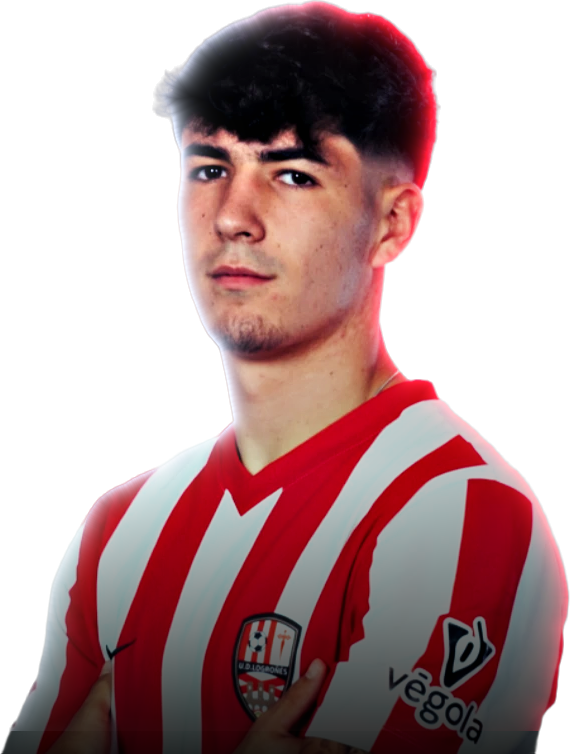
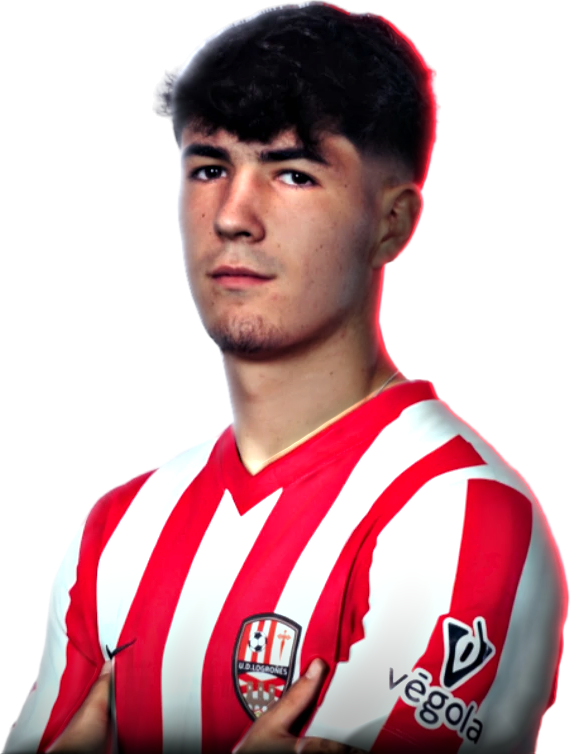
Miniaturero: iluminación 3D con Depth Anything V2 Small y aplicarla al Match Day
Claude-Session: https://claude.ai/code/session_01Q54DXVH7GopsR3mpjPBNRA

diff --git a/miniaturero/salida/2026-11-01_matchday-logrones/proyecto/matchday.html b/miniaturero/salida/2026-11-01_matchday-logrones/proyecto/matchday.html
@@ -39,11 +39,11 @@
 
   /* contraluz: foco detrás de la cabeza del jugador */
   .contraluz { position: absolute; left: -12%; top: 18%; width: 80%; aspect-ratio: 1; border-radius: 50%;
-    background: radial-gradient(circle, rgba(255,235,235,.55) 0%, rgba(255,40,60,.35) 30%, rgba(214,0,28,0) 65%);
+    background: radial-gradient(circle, rgba(255,225,225,.30) 0%, rgba(255,40,60,.18) 30%, rgba(214,0,28,0) 62%);
     mix-blend-mode: screen; }
   /* jugador recortado */
   .jugador { position: absolute; bottom: 0; left: -7%; height: var(--jugador-alto);
-    filter: drop-shadow(0 0 1px rgba(255,255,255,.7)) drop-shadow(0 0 22px rgba(214,0,28,.7)) drop-shadow(14px 18px 30px rgba(0,0,0,.6)); }
+    filter: drop-shadow(18px 24px 36px rgba(0,0,0,.75)); }
 
   .titulo { position: absolute; right: 5%; top: 4%; text-align: right; color: var(--blanco);
     font-size: 210px; line-height: .86; letter-spacing: 2px;

diff --git a/miniaturero/herramientas/mini.py b/miniaturero/herramientas/mini.py
@@ -328,10 +328,97 @@ def iluminar(rgba, rim_der="#ff1a2e", rim_izq="#dfe9ff", fuerza_rim=1.0, clave=0
     return np.dstack([out, rgba[..., 3]])
 
 
+def profundidad(rgb):
+    """Profundidad relativa (más alto = más cerca) con Depth Anything V2 Small."""
+    h, w = rgb.shape[:2]
+    H = 14 * round(700 / 14); W = 14 * max(1, round(w * H / h / 14))
+    x = cv2.resize(rgb, (W, H), interpolation=cv2.INTER_CUBIC).astype(np.float32) / 255
+    x = ((x - [0.485, 0.456, 0.406]) / [0.229, 0.224, 0.225]).transpose(2, 0, 1)[None].astype(np.float32)
+    d = sesion("depth_anything_v2_small.onnx").run(None, {"pixel_values": x})[0][0]
+    return cv2.resize(d, (w, h), interpolation=cv2.INTER_CUBIC)
+
+
+def _dir(v):
+    v = np.array(v, np.float32); return v / np.linalg.norm(v)
+
+
+def iluminar_3d(rgba, rim_der="#ff1a2e", rim_izq="#e6eeff", fuerza_rim=1.0, clave=1.0, fundido=0.2,
+                key=(-0.55, -0.55, 0.62), devolver_mapas=False):
+    """Reiluminación tipo estudio usando el relieve estimado.
+    Ejes: x a la derecha, y hacia abajo, z hacia la cámara."""
+    rgb = rgba[..., :3].astype(np.float32) / 255
+    a = rgba[..., 3].astype(np.float32) / 255
+    h, w = a.shape
+    m = a > 0.5
+    # profundidad sobre fondo gris neutro
+    base = (rgb * a[..., None] + 0.5 * (1 - a[..., None]))
+    d = profundidad((base * 255).astype(np.uint8))
+    lo, hi = np.percentile(d[m], 2), np.percentile(d[m], 98)
+    d = np.clip((d - lo) / (hi - lo + 1e-6), 0, 1)
+    d = cv2.bilateralFilter(d.astype(np.float32), 9, 0.08, 5)
+    gx = cv2.Sobel(d, cv2.CV_32F, 1, 0, ksize=5) / 128
+    gy = cv2.Sobel(d, cv2.CV_32F, 0, 1, ksize=5) / 128
+    esc = 0.55 / (np.median(np.sqrt(gx ** 2 + gy ** 2)[m]) + 1e-6)
+    nx, ny = -gx * esc, -gy * esc
+    # cerca de la silueta las normales giran hacia fuera (como en un objeto real)
+    pad = int(max(h, w) * 0.1)
+    ap = cv2.copyMakeBorder(a, pad, pad, pad, pad, cv2.BORDER_CONSTANT, value=0)
+    ab = cv2.GaussianBlur(ap, (0, 0), max(h, w) * 0.025)
+    ex = -cv2.Sobel(ab, cv2.CV_32F, 1, 0, ksize=5)[pad:-pad, pad:-pad]
+    ey = -cv2.Sobel(ab, cv2.CV_32F, 0, 1, ksize=5)[pad:-pad, pad:-pad]
+    en = np.sqrt(ex ** 2 + ey ** 2) + 1e-6
+    dist = cv2.distanceTransform((ap > 0.5).astype(np.uint8), cv2.DIST_L2, 5)[pad:-pad, pad:-pad]
+    peso = np.exp(-dist / (max(h, w) * 0.02))
+    nx = nx + peso * ex / en * 2.5
+    ny = ny + peso * ey / en * 2.5
+    nz = np.ones_like(nx)
+    nn = np.sqrt(nx ** 2 + ny ** 2 + nz ** 2)
+    N = np.dstack([nx / nn, ny / nn, nz / nn])
+
+    def lambert(L, envolver=0.0):
+        return np.clip((N @ _dir(L) + envolver) / (1 + envolver), 0, 1)
+
+    L_key = _dir(key)
+    k = lambert(L_key, 0.25) ** 1.2                       # foco principal (ventana grande)
+    fill = lambert((0.7, -0.1, 0.7), 0.5)                 # relleno suave desde la derecha
+    amb = 0.22
+    luz = amb + 1.05 * clave * k + 0.22 * fill
+    # normalizar para no oscurecer/aclarar en conjunto
+    luz = luz / (np.median(luz[m]) + 1e-6) * 1.02
+    out = rgb * luz[..., None]
+    # brillo especular suave del foco principal (piel, pelo)
+    Hv = _dir(L_key + np.array([0, 0, 1], np.float32))
+    lumi = rgb.mean(2)
+    spec = np.clip(N @ Hv, 0, 1) ** 60 * 0.12 * np.clip(lumi * 2.5, 0, 1)   # sin manchas en zonas oscuras (pelo)
+    out = out + spec[..., None] * np.array([1.0, 0.97, 0.92])
+    # contraluces (rim) detrás del sujeto
+    fres = np.clip(1 - N[..., 2], 0, 1) ** 1.4
+    r1 = np.clip(N @ _dir((0.9, -0.15, -0.35)), 0, 1) ** 1.6 * fres
+    r2 = np.clip(N @ _dir((-0.85, -0.45, -0.3)), 0, 1) ** 1.6 * fres
+    gy01 = (np.arange(h)[:, None] - np.where(m)[0].min()) / max(np.ptp(np.where(m)[0]), 1)
+    caida = 1 - np.clip((gy01 - 0.75) / 0.25, 0, 1) ** 1.5 * fundido * 2
+    caida = np.clip(caida, 0.15, 1)
+    rim = (r1[..., None] * color_hex(rim_der) * 2.2 + r2[..., None] * color_hex(rim_izq) * 1.6) * fuerza_rim
+    cerca = np.exp(-dist / (max(h, w) * 0.03)) ** 1.5      # los contraluces solo "lamen" el borde
+    rim = rim * (caida * cerca)[..., None]
+    out = 1 - (1 - out.clip(0, 1)) * (1 - rim.clip(0, 1))
+    # sombra inferior + contraste final
+    out = out * caida[..., None]
+    out = np.clip(out, 0, 1)
+    out = out + (out - cv2.GaussianBlur(out, (0, 0), max(h, w) * 0.02)) * 0.25
+    res = np.dstack([(out.clip(0, 1) * 255).astype(np.uint8), rgba[..., 3]])
+    if devolver_mapas:
+        return res, d, N, luz
+    return res
+
+
 def cmd_iluminar(a):
     no_pisar(a.recorte, a.salida)
     im = np.array(Image.open(a.recorte).convert("RGBA"))
-    res = iluminar(im, a.rim_der, a.rim_izq, a.fuerza_rim, a.clave, a.fundido)
+    if a.modo == "plano":
+        res = iluminar(im, a.rim_der, a.rim_izq, a.fuerza_rim, 0.55, a.fundido)
+    else:
+        res = iluminar_3d(im, a.rim_der, a.rim_izq, a.fuerza_rim, a.clave, a.fundido)
     Image.fromarray(res).save(a.salida)
     print(f"Iluminación de estudio aplicada en {a.salida}")
 
@@ -407,8 +494,9 @@ def main():
     s.add_argument("--fuerza", type=float, default=0.6); s.set_defaults(f=cmd_igualar_luz)
     s = sp.add_parser("iluminar"); s.add_argument("recorte"); s.add_argument("salida")
     s.add_argument("--rim-der", default="#ff1a2e"); s.add_argument("--rim-izq", default="#dfe9ff")
-    s.add_argument("--fuerza-rim", type=float, default=1.0); s.add_argument("--clave", type=float, default=0.55)
-    s.add_argument("--fundido", type=float, default=0.4); s.set_defaults(f=cmd_iluminar)
+    s.add_argument("--fuerza-rim", type=float, default=1.0); s.add_argument("--clave", type=float, default=1.0)
+    s.add_argument("--modo", choices=["3d", "plano"], default="3d")
+    s.add_argument("--fundido", type=float, default=0.2); s.set_defaults(f=cmd_iluminar)
     s = sp.add_parser("revisar"); s.add_argument("imagenes", nargs="+"); s.add_argument("--salida", required=True); s.set_defaults(f=cmd_revisar)
     s = sp.add_parser("exportar"); s.add_argument("imagen"); s.set_defaults(f=cmd_exportar)
     a = p.parse_args()

diff --git a/miniaturero/docs/licencias.md b/miniaturero/docs/licencias.md
@@ -9,6 +9,7 @@ Si una licencia cambia, actualiza esta tabla antes de seguir usando el recurso.
 |---|---|---|---|---|
 | Quitar fondo | **BiRefNet** (export ONNX) | `huggingface.co/onnx-community/BiRefNet-ONNX` (original: `ZhengPeng7/BiRefNet`) | MIT | ✅ Sí |
 | Relleno inteligente | **LaMa** (big-lama, export ONNX `lama_fp32.onnx`) | `huggingface.co/Carve/LaMa-ONNX` (original: `advimman/lama`) | Apache-2.0 | ✅ Sí |
+| Profundidad (para iluminar en 3D) | **Depth Anything V2 Small** (export ONNX) | `huggingface.co/onnx-community/depth-anything-v2-small` (original: `depth-anything/Depth-Anything-V2-Small`) | Apache-2.0 (ojo: las versiones Base/Large son CC BY-NC 4.0, no usarlas) | ✅ Sí |
 | Detección de caras | **YuNet** 2023mar | `huggingface.co/opencv/face_detection_yunet` | MIT | ✅ Sí |
 | Sustitución de cara | **inswapper_128** (InsightFace) | `huggingface.co/facefusion/models-3.0.0` | Modelos InsightFace: **solo investigación no comercial**. Desde 2025-11 InsightFace pide contactar con `contact@insightface.ai` para licenciar inswapper. | ❌ **No** |
 | Identidad de la cara (para el anterior) | **ArcFace w600k_r50** (buffalo_l, InsightFace) | `huggingface.co/facefusion/models-3.0.0` | Igual que arriba: **no comercial** | ❌ **No** |
@@ -17,7 +18,7 @@ Si una licencia cambia, actualiza esta tabla antes de seguir usando el recurso.
 Librerías: onnxruntime (MIT), OpenCV (Apache-2.0), Pillow (MIT-CMU), NumPy (BSD), onnx (Apache-2.0), Playwright (Apache-2.0), Chromium (BSD y otras).
 
 ### Qué significa en la práctica
-- **Recortar, borrar elementos, detectar caras, componer y renderizar**: todo con licencias que permiten uso comercial. Sirve para un canal monetizado.
+- **Recortar, borrar elementos, iluminar en 3D, detectar caras, componer y renderizar**: todo con licencias que permiten uso comercial. Sirve para un canal monetizado.
 - **"Cambiar solo la cara"** (inswapper + ArcFace + GFPGAN): **solo para uso personal/no comercial**. Si el canal está monetizado o es para un cliente, la alternativa es **"cambiar la persona completa"** (recorte de tu foto + relleno con LaMa), que no usa esos modelos.
 - Antes de cada cambio de cara en un encargo, el miniaturero debe recordarlo y preguntar si el uso es comercial.
 

diff --git a/miniaturero/salida/2026-11-01_matchday-logrones/notas.md b/miniaturero/salida/2026-11-01_matchday-logrones/notas.md
@@ -6,6 +6,7 @@
 - **Fuentes:** Anton y Bebas Neue (titulares), Montserrat (datos). Todas con licencia SIL OFL.
 - **Jugador:** Anai Morales (UD Logroñés). Foto aportada por el usuario (`entrada/anai_morales.webp`, gráfico del club), recortada con BiRefNet → `proyecto/img/jugador.png`. Solo se usa el jugador (sin el texto, el estadio ni el escudo del gráfico). El escudo y el patrocinador de la camiseta vienen en la propia foto.
 - **Iluminación (3/11):** `mini.py iluminar` sobre el recorte → `proyecto/img/jugador_iluminado.png`: luz principal suave desde arriba a la izquierda, contorno blanco frío a la izquierda (pelo, hombro, brazo) que pasa a contorno rojo a la derecha, más contraste local y la parte de abajo fundida en sombra. En el HTML: contraluz rojo/blanco detrás de la cabeza y sombra proyectada. Revisión: 1) poco visible → más intensa; 2) se cortaba blanco/rojo de golpe sobre el pelo → transición gradual y cálculo con margen; 3) OK.
+- **Iluminación 3D (4/11):** a petición ("iluminación profesional de verdad"), la versión 2D se sustituye por reiluminación con relieve: Depth Anything V2 Small → normales → foco principal arriba-izquierda, relleno suave a la derecha, contraluz rojo detrás-derecha y blanco frío detrás-izquierda, brillo especular suave. Revisión: 1) velo rosado en la camiseta → contraluces solo en los bordes; 2) franja recta abajo y blancos grises → quitado el oscurecido duplicado; 3) halo rosa CSS y mancha en el pelo → solo sombra proyectada y brillo limitado; 4) OK.
 - **Escudos:** no se han añadido aparte. Se pueden añadir si los aportas y confirmas que puedes usarlos.
 - **Revisión:** 1) el nombre del jugador abajo quedaba apagado y competía con "COPA DEL REY" → eliminado (pediste solo al jugador). 2) OK.
 

diff --git a/miniaturero/CLAUDE.md b/miniaturero/CLAUDE.md
@@ -32,7 +32,7 @@ Este entorno puede ser temporal (sesión en la nube): los modelos (`modelos/`, ~
 | Borrar elementos / texto / persona | `mini.py borrar FOTO MASCARA SALIDA` o `--caja x,y,w,h` (LaMa) | Apache-2.0 |
 | Detectar caras y tamaño | `mini.py caras` (YuNet) | MIT |
 | Cambiar solo la cara | `mini.py cambiar-cara MI_CARA DESTINO SALIDA --indice N` (inswapper + ArcFace + GFPGAN) | **NO COMERCIAL** |
-| Iluminación de estudio (luz principal, contornos de color, contraste, fundido abajo) | `mini.py iluminar RECORTE SALIDA [--rim-der #hex --rim-izq #hex --clave 0.55 --fundido 0.4]` + en el HTML un `.contraluz` (degradado radial con `mix-blend-mode: screen`) detrás de la cabeza | — |
+| Iluminación de estudio **3D** (estima el relieve con Depth Anything V2 Small y lo ilumina con foco principal, relleno, dos contraluces de color y brillo de piel) | `mini.py iluminar RECORTE SALIDA [--rim-der #hex --rim-izq #hex --clave 1.0 --fundido 0.2]` (`--modo plano` = versión 2D antigua, peor). En el HTML: solo sombra proyectada (`drop-shadow` negro difuso) y un `.contraluz` suave; **no** poner resplandores de color alrededor del sujeto, delatan el montaje | Apache-2.0 |
 | Igualar luz/color de un recorte | `mini.py igualar-luz RECORTE REFERENCIA SALIDA --fuerza 0.6` | — |
 | Revisión grande + móvil | `mini.py revisar A.png [B.png…] --salida comparativa.png` | — |
 | JPG ≤ 2 MB | `mini.py exportar miniatura.png` | — |
